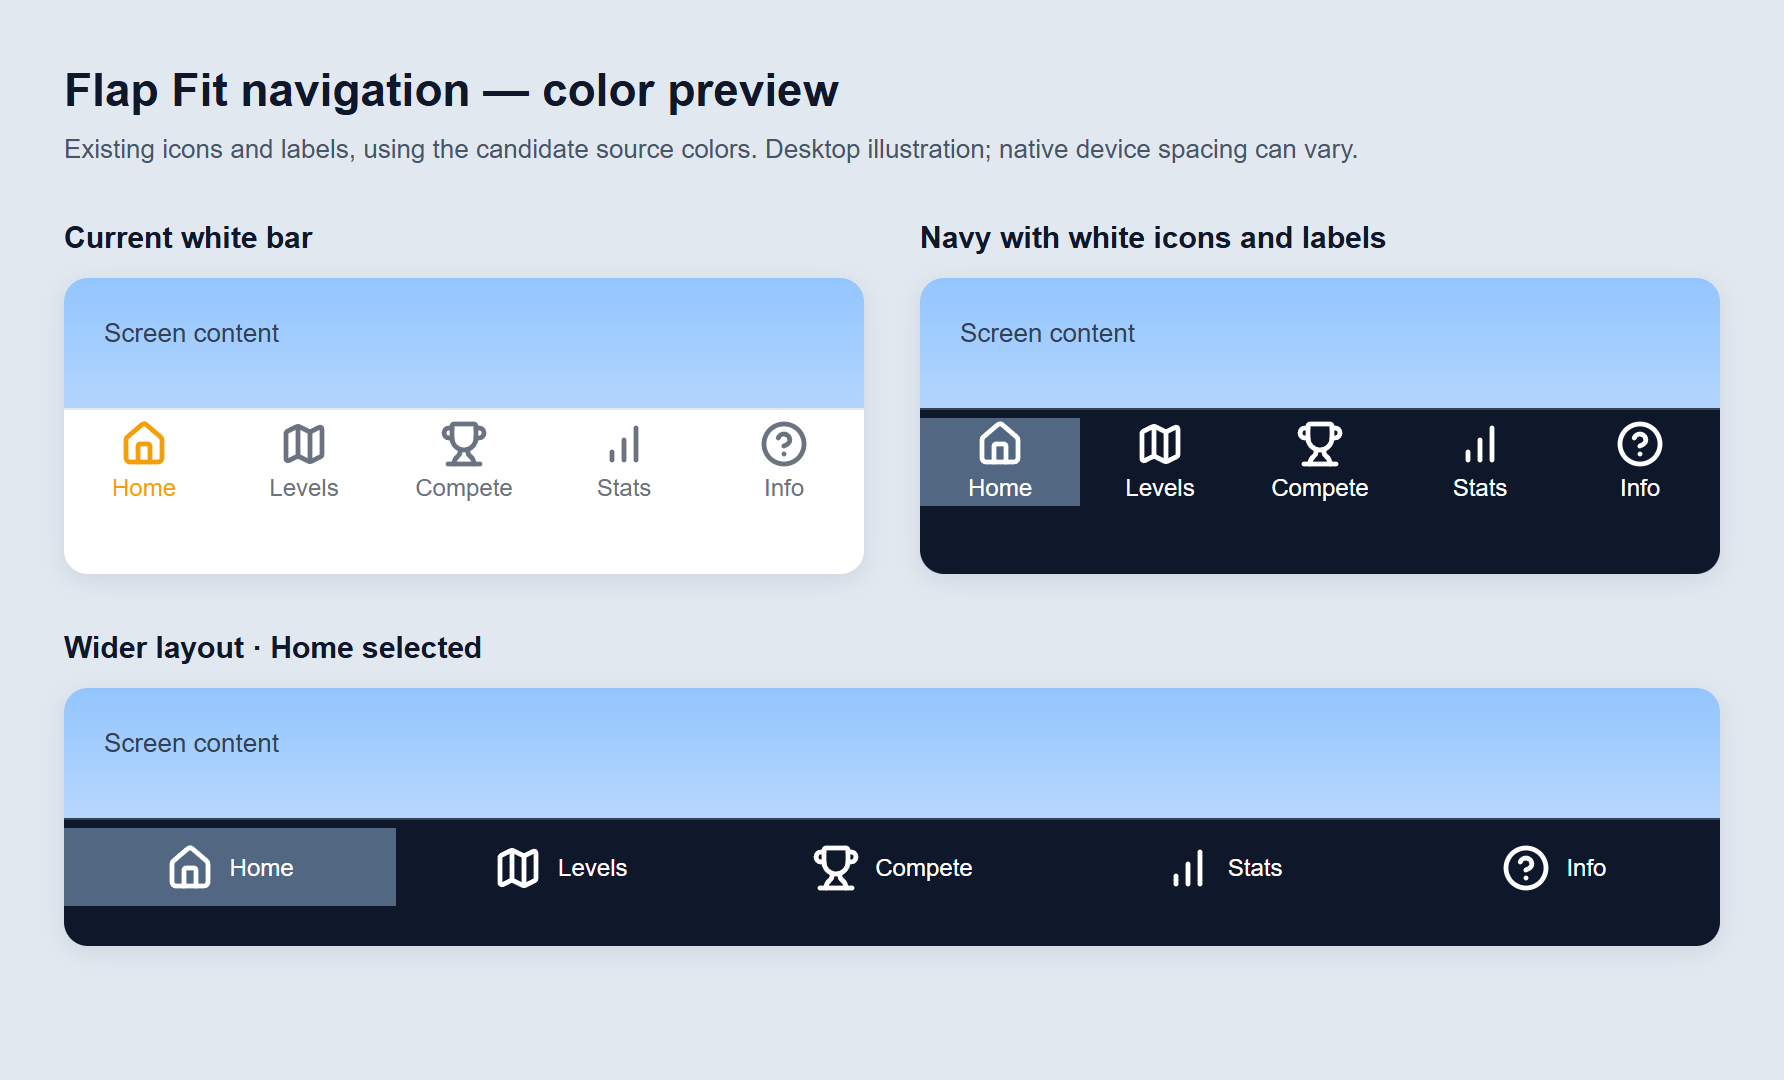
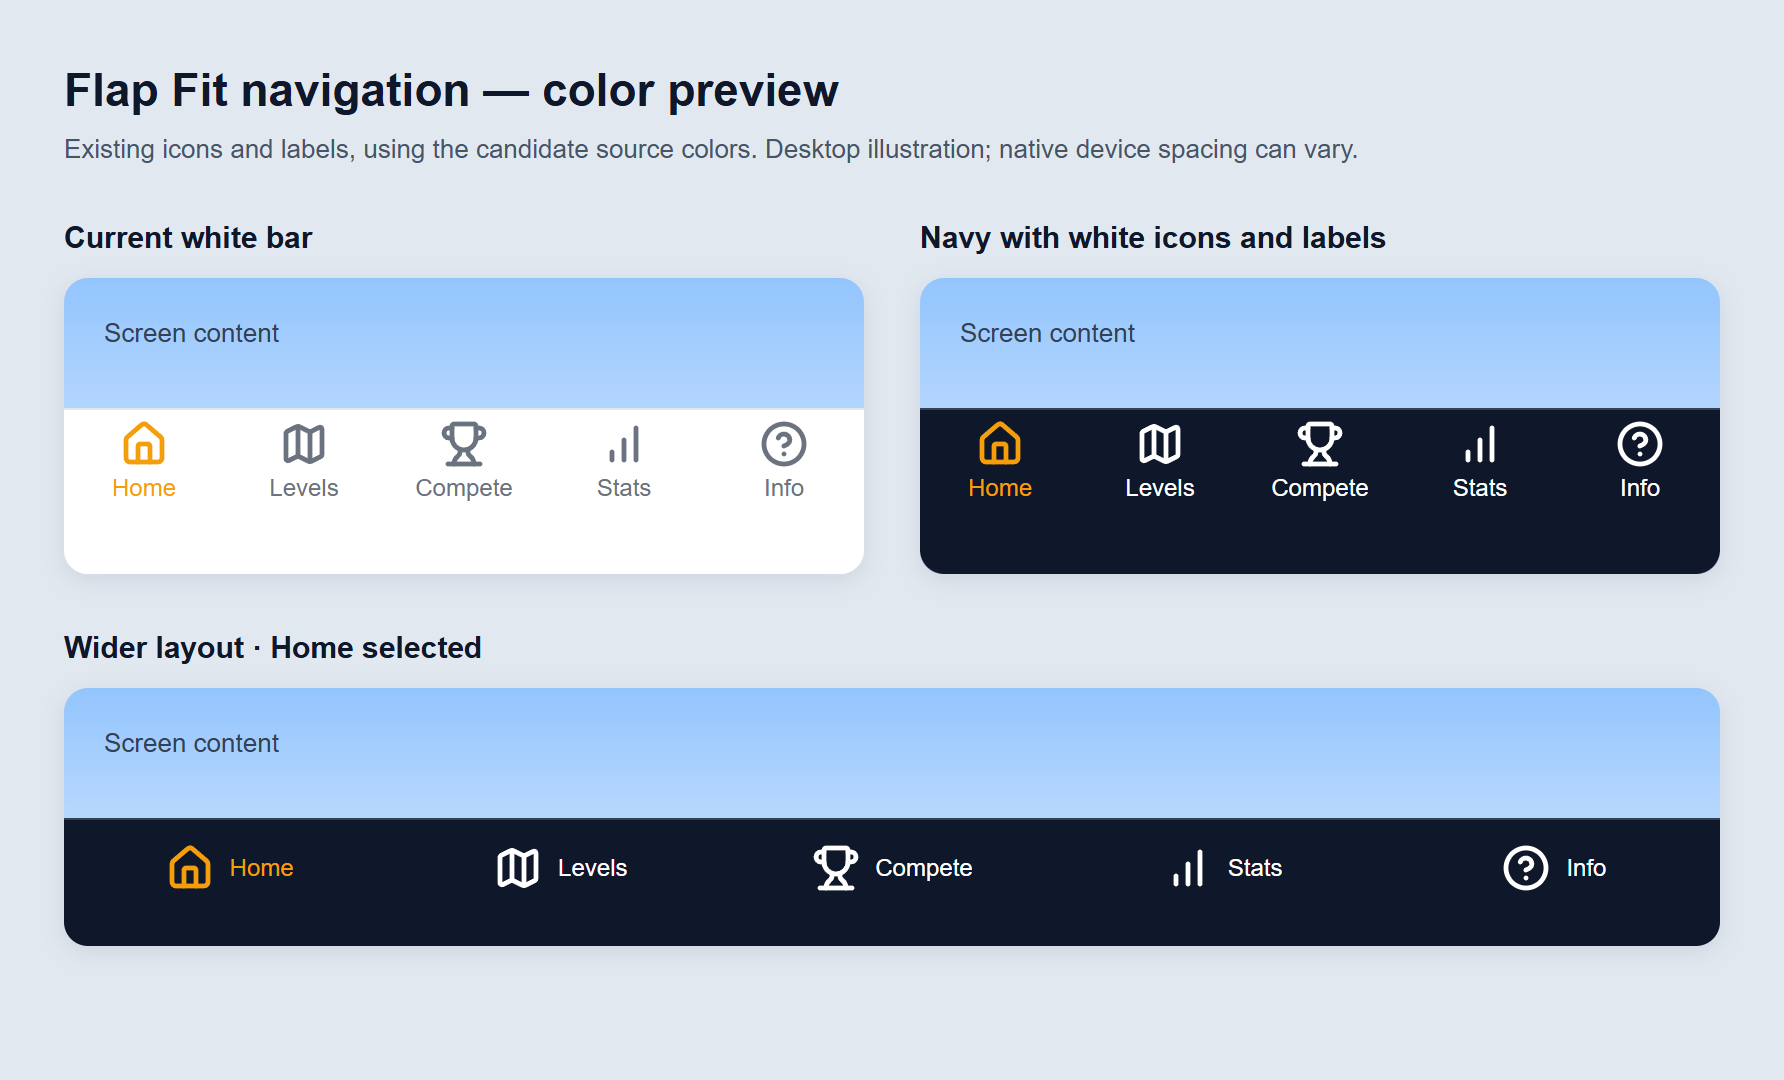
style(ios): preserve orange selected tab in navy preview

Changed region(s): [[0.0308, 0.7639, 0.2466, 0.8556], [0.4933, 0.3667, 0.6166, 0.4889]]

diff --git a/docs/release/navy-tab-preview-2026-10-08/nav-preview.html b/docs/release/navy-tab-preview-2026-10-08/nav-preview.html
@@ -1,1 +1,1 @@
-<!doctype html><meta charset="utf-8"><style>*{box-sizing:border-box}body{margin:0;padding:32px;background:#E2E8F0;font-family:Arial,sans-serif;color:#0F172A}h1{font-size:23px;margin:0 0 8px}p{font-size:13px;margin:0 0 28px;color:#475569}.row{display:flex;gap:28px}.card{width:400px}h2{font-size:15px;margin:0 0 12px}.frame{border-radius:12px;overflow:hidden;box-shadow:0 3px 12px #0f172a18;background:linear-gradient(#93c5fd,#dbeafe)}.content{height:65px;padding:20px;font-size:13px;color:#334155}.bar{display:flex;height:83px;padding-top:4px;padding-bottom:34px;width:100%}.tab{flex:1;display:flex;flex-direction:column;align-items:center;justify-content:center;gap:2px;min-width:0;font-size:12px;line-height:16px}.tab svg{height:24px;width:24px}.wide{height:64px;padding-bottom:20px}.wide .tab{flex-direction:row;gap:8px}.ipad{width:828px;margin-top:28px}</style><h1>Flap Fit navigation — color preview</h1><p>Existing icons and labels, using the candidate source colors. Desktop illustration; native device spacing can vary.</p><div class="row"><section class="card"><h2>Current white bar</h2><div class="frame"><div class="content">Screen content</div><nav class="bar " style="background:#FFFFFF;border-top:1px solid #E5E7EB"><div class="tab" style="background:transparent;color:#F59E0B"><svg viewBox="0 0 24 24" fill="none" stroke="#F59E0B" stroke-width="2.4" stroke-linecap="round" stroke-linejoin="round"><path d="M15 21v-8a1 1 0 0 0-1-1h-4a1 1 0 0 0-1 1v8"/><path d="M3 10a2 2 0 0 1 .709-1.528l7-5.999a2 2 0 0 1 2.582 0l7 5.999A2 2 0 0 1 21 10v9a2 2 0 0 1-2 2H5a2 2 0 0 1-2-2z"/></svg><span>Home</span></div><div class="tab" style="background:transparent;color:#6B7280"><svg viewBox="0 0 24 24" fill="none" stroke="#6B7280" stroke-width="2.4" stroke-linecap="round" stroke-linejoin="round"><path d="M14.106 5.553a2 2 0 0 0 1.788 0l3.659-1.83A1 1 0 0 1 21 4.619v12.764a1 1 0 0 1-.553.894l-4.553 2.277a2 2 0 0 1-1.788 0l-4.212-2.106a2 2 0 0 0-1.788 0l-3.659 1.83A1 1 0 0 1 3 19.381V6.618a1 1 0 0 1 .553-.894l4.553-2.277a2 2 0 0 1 1.788 0z"/><path d="M15 5.764v15"/><path d="M9 3.236v15"/></svg><span>Levels</span></div><div class="tab" style="background:transparent;color:#6B7280"><svg viewBox="0 0 24 24" fill="none" stroke="#6B7280" stroke-width="2.4" stroke-linecap="round" stroke-linejoin="round"><path d="M10 14.66v1.626a2 2 0 0 1-.976 1.696A5 5 0 0 0 7 21.978"/><path d="M14 14.66v1.626a2 2 0 0 0 .976 1.696A5 5 0 0 1 17 21.978"/><path d="M18 9h1.5a1 1 0 0 0 0-5H18"/><path d="M4 22h16"/><path d="M6 9a6 6 0 0 0 12 0V3a1 1 0 0 0-1-1H7a1 1 0 0 0-1 1z"/><path d="M6 9H4.5a1 1 0 0 1 0-5H6"/></svg><span>Compete</span></div><div class="tab" style="background:transparent;color:#6B7280"><svg viewBox="0 0 24 24" fill="none" stroke="#6B7280" stroke-width="2.4" stroke-linecap="round" stroke-linejoin="round"><line x1="12" x2="12" y1="20" y2="10"/><line x1="18" x2="18" y1="20" y2="4"/><line x1="6" x2="6" y1="20" y2="16"/></svg><span>Stats</span></div><div class="tab" style="background:transparent;color:#6B7280"><svg viewBox="0 0 24 24" fill="none" stroke="#6B7280" stroke-width="2.4" stroke-linecap="round" stroke-linejoin="round"><circle cx="12" cy="12" r="10"/><path d="M9.09 9a3 3 0 0 1 5.83 1c0 2-3 3-3 3"/><path d="M12 17h.01"/></svg><span>Info</span></div></nav></div></section><section class="card"><h2>Navy with white icons and labels</h2><div class="frame"><div class="content">Screen content</div><nav class="bar " style="background:#0F172A;border-top:1px solid #334155"><div class="tab" style="background:#526782;color:#FFFFFF"><svg viewBox="0 0 24 24" fill="none" stroke="#FFFFFF" stroke-width="2.4" stroke-linecap="round" stroke-linejoin="round"><path d="M15 21v-8a1 1 0 0 0-1-1h-4a1 1 0 0 0-1 1v8"/><path d="M3 10a2 2 0 0 1 .709-1.528l7-5.999a2 2 0 0 1 2.582 0l7 5.999A2 2 0 0 1 21 10v9a2 2 0 0 1-2 2H5a2 2 0 0 1-2-2z"/></svg><span>Home</span></div><div class="tab" style="background:transparent;color:#FFFFFF"><svg viewBox="0 0 24 24" fill="none" stroke="#FFFFFF" stroke-width="2.4" stroke-linecap="round" stroke-linejoin="round"><path d="M14.106 5.553a2 2 0 0 0 1.788 0l3.659-1.83A1 1 0 0 1 21 4.619v12.764a1 1 0 0 1-.553.894l-4.553 2.277a2 2 0 0 1-1.788 0l-4.212-2.106a2 2 0 0 0-1.788 0l-3.659 1.83A1 1 0 0 1 3 19.381V6.618a1 1 0 0 1 .553-.894l4.553-2.277a2 2 0 0 1 1.788 0z"/><path d="M15 5.764v15"/><path d="M9 3.236v15"/></svg><span>Levels</span></div><div class="tab" style="background:transparent;color:#FFFFFF"><svg viewBox="0 0 24 24" fill="none" stroke="#FFFFFF" stroke-width="2.4" stroke-linecap="round" stroke-linejoin="round"><path d="M10 14.66v1.626a2 2 0 0 1-.976 1.696A5 5 0 0 0 7 21.978"/><path d="M14 14.66v1.626a2 2 0 0 0 .976 1.696A5 5 0 0 1 17 21.978"/><path d="M18 9h1.5a1 1 0 0 0 0-5H18"/><path d="M4 22h16"/><path d="M6 9a6 6 0 0 0 12 0V3a1 1 0 0 0-1-1H7a1 1 0 0 0-1 1z"/><path d="M6 9H4.5a1 1 0 0 1 0-5H6"/></svg><span>Compete</span></div><div class="tab" style="background:transparent;color:#FFFFFF"><svg viewBox="0 0 24 24" fill="none" stroke="#FFFFFF" stroke-width="2.4" stroke-linecap="round" stroke-linejoin="round"><line x1="12" x2="12" y1="20" y2="10"/><line x1="18" x2="18" y1="20" y2="4"/><line x1="6" x2="6" y1="20" y2="16"/></svg><span>Stats</span></div><div class="tab" style="background:transparent;color:#FFFFFF"><svg viewBox="0 0 24 24" fill="none" stroke="#FFFFFF" stroke-width="2.4" stroke-linecap="round" stroke-linejoin="round"><circle cx="12" cy="12" r="10"/><path d="M9.09 9a3 3 0 0 1 5.83 1c0 2-3 3-3 3"/><path d="M12 17h.01"/></svg><span>Info</span></div></nav></div></section></div><section class="ipad"><h2>Wider layout · Home selected</h2><div class="frame"><div class="content">Screen content</div><nav class="bar wide" style="background:#0F172A;border-top:1px solid #334155"><div class="tab" style="background:#526782;color:#FFFFFF"><svg viewBox="0 0 24 24" fill="none" stroke="#FFFFFF" stroke-width="2.4" stroke-linecap="round" stroke-linejoin="round"><path d="M15 21v-8a1 1 0 0 0-1-1h-4a1 1 0 0 0-1 1v8"/><path d="M3 10a2 2 0 0 1 .709-1.528l7-5.999a2 2 0 0 1 2.582 0l7 5.999A2 2 0 0 1 21 10v9a2 2 0 0 1-2 2H5a2 2 0 0 1-2-2z"/></svg><span>Home</span></div><div class="tab" style="background:transparent;color:#FFFFFF"><svg viewBox="0 0 24 24" fill="none" stroke="#FFFFFF" stroke-width="2.4" stroke-linecap="round" stroke-linejoin="round"><path d="M14.106 5.553a2 2 0 0 0 1.788 0l3.659-1.83A1 1 0 0 1 21 4.619v12.764a1 1 0 0 1-.553.894l-4.553 2.277a2 2 0 0 1-1.788 0l-4.212-2.106a2 2 0 0 0-1.788 0l-3.659 1.83A1 1 0 0 1 3 19.381V6.618a1 1 0 0 1 .553-.894l4.553-2.277a2 2 0 0 1 1.788 0z"/><path d="M15 5.764v15"/><path d="M9 3.236v15"/></svg><span>Levels</span></div><div class="tab" style="background:transparent;color:#FFFFFF"><svg viewBox="0 0 24 24" fill="none" stroke="#FFFFFF" stroke-width="2.4" stroke-linecap="round" stroke-linejoin="round"><path d="M10 14.66v1.626a2 2 0 0 1-.976 1.696A5 5 0 0 0 7 21.978"/><path d="M14 14.66v1.626a2 2 0 0 0 .976 1.696A5 5 0 0 1 17 21.978"/><path d="M18 9h1.5a1 1 0 0 0 0-5H18"/><path d="M4 22h16"/><path d="M6 9a6 6 0 0 0 12 0V3a1 1 0 0 0-1-1H7a1 1 0 0 0-1 1z"/><path d="M6 9H4.5a1 1 0 0 1 0-5H6"/></svg><span>Compete</span></div><div class="tab" style="background:transparent;color:#FFFFFF"><svg viewBox="0 0 24 24" fill="none" stroke="#FFFFFF" stroke-width="2.4" stroke-linecap="round" stroke-linejoin="round"><line x1="12" x2="12" y1="20" y2="10"/><line x1="18" x2="18" y1="20" y2="4"/><line x1="6" x2="6" y1="20" y2="16"/></svg><span>Stats</span></div><div class="tab" style="background:transparent;color:#FFFFFF"><svg viewBox="0 0 24 24" fill="none" stroke="#FFFFFF" stroke-width="2.4" stroke-linecap="round" stroke-linejoin="round"><circle cx="12" cy="12" r="10"/><path d="M9.09 9a3 3 0 0 1 5.83 1c0 2-3 3-3 3"/><path d="M12 17h.01"/></svg><span>Info</span></div></nav></div></section>
+<!doctype html><meta charset="utf-8"><style>*{box-sizing:border-box}body{margin:0;padding:32px;background:#E2E8F0;font-family:Arial,sans-serif;color:#0F172A}h1{font-size:23px;margin:0 0 8px}p{font-size:13px;margin:0 0 28px;color:#475569}.row{display:flex;gap:28px}.card{width:400px}h2{font-size:15px;margin:0 0 12px}.frame{border-radius:12px;overflow:hidden;box-shadow:0 3px 12px #0f172a18;background:linear-gradient(#93c5fd,#dbeafe)}.content{height:65px;padding:20px;font-size:13px;color:#334155}.bar{display:flex;height:83px;padding-top:4px;padding-bottom:34px;width:100%}.tab{flex:1;display:flex;flex-direction:column;align-items:center;justify-content:center;gap:2px;min-width:0;font-size:12px;line-height:16px}.tab svg{height:24px;width:24px}.wide{height:64px;padding-bottom:20px}.wide .tab{flex-direction:row;gap:8px}.ipad{width:828px;margin-top:28px}</style><h1>Flap Fit navigation — color preview</h1><p>Existing icons and labels, using the candidate source colors. Desktop illustration; native device spacing can vary.</p><div class="row"><section class="card"><h2>Current white bar</h2><div class="frame"><div class="content">Screen content</div><nav class="bar " style="background:#FFFFFF;border-top:1px solid #E5E7EB"><div class="tab" style="background:transparent;color:#F59E0B"><svg viewBox="0 0 24 24" fill="none" stroke="#F59E0B" stroke-width="2.4" stroke-linecap="round" stroke-linejoin="round"><path d="M15 21v-8a1 1 0 0 0-1-1h-4a1 1 0 0 0-1 1v8"/><path d="M3 10a2 2 0 0 1 .709-1.528l7-5.999a2 2 0 0 1 2.582 0l7 5.999A2 2 0 0 1 21 10v9a2 2 0 0 1-2 2H5a2 2 0 0 1-2-2z"/></svg><span>Home</span></div><div class="tab" style="background:transparent;color:#6B7280"><svg viewBox="0 0 24 24" fill="none" stroke="#6B7280" stroke-width="2.4" stroke-linecap="round" stroke-linejoin="round"><path d="M14.106 5.553a2 2 0 0 0 1.788 0l3.659-1.83A1 1 0 0 1 21 4.619v12.764a1 1 0 0 1-.553.894l-4.553 2.277a2 2 0 0 1-1.788 0l-4.212-2.106a2 2 0 0 0-1.788 0l-3.659 1.83A1 1 0 0 1 3 19.381V6.618a1 1 0 0 1 .553-.894l4.553-2.277a2 2 0 0 1 1.788 0z"/><path d="M15 5.764v15"/><path d="M9 3.236v15"/></svg><span>Levels</span></div><div class="tab" style="background:transparent;color:#6B7280"><svg viewBox="0 0 24 24" fill="none" stroke="#6B7280" stroke-width="2.4" stroke-linecap="round" stroke-linejoin="round"><path d="M10 14.66v1.626a2 2 0 0 1-.976 1.696A5 5 0 0 0 7 21.978"/><path d="M14 14.66v1.626a2 2 0 0 0 .976 1.696A5 5 0 0 1 17 21.978"/><path d="M18 9h1.5a1 1 0 0 0 0-5H18"/><path d="M4 22h16"/><path d="M6 9a6 6 0 0 0 12 0V3a1 1 0 0 0-1-1H7a1 1 0 0 0-1 1z"/><path d="M6 9H4.5a1 1 0 0 1 0-5H6"/></svg><span>Compete</span></div><div class="tab" style="background:transparent;color:#6B7280"><svg viewBox="0 0 24 24" fill="none" stroke="#6B7280" stroke-width="2.4" stroke-linecap="round" stroke-linejoin="round"><line x1="12" x2="12" y1="20" y2="10"/><line x1="18" x2="18" y1="20" y2="4"/><line x1="6" x2="6" y1="20" y2="16"/></svg><span>Stats</span></div><div class="tab" style="background:transparent;color:#6B7280"><svg viewBox="0 0 24 24" fill="none" stroke="#6B7280" stroke-width="2.4" stroke-linecap="round" stroke-linejoin="round"><circle cx="12" cy="12" r="10"/><path d="M9.09 9a3 3 0 0 1 5.83 1c0 2-3 3-3 3"/><path d="M12 17h.01"/></svg><span>Info</span></div></nav></div></section><section class="card"><h2>Navy with white icons and labels</h2><div class="frame"><div class="content">Screen content</div><nav class="bar " style="background:#0F172A;border-top:1px solid #334155"><div class="tab" style="background:transparent;color:#F59E0B"><svg viewBox="0 0 24 24" fill="none" stroke="#F59E0B" stroke-width="2.4" stroke-linecap="round" stroke-linejoin="round"><path d="M15 21v-8a1 1 0 0 0-1-1h-4a1 1 0 0 0-1 1v8"/><path d="M3 10a2 2 0 0 1 .709-1.528l7-5.999a2 2 0 0 1 2.582 0l7 5.999A2 2 0 0 1 21 10v9a2 2 0 0 1-2 2H5a2 2 0 0 1-2-2z"/></svg><span>Home</span></div><div class="tab" style="background:transparent;color:#FFFFFF"><svg viewBox="0 0 24 24" fill="none" stroke="#FFFFFF" stroke-width="2.4" stroke-linecap="round" stroke-linejoin="round"><path d="M14.106 5.553a2 2 0 0 0 1.788 0l3.659-1.83A1 1 0 0 1 21 4.619v12.764a1 1 0 0 1-.553.894l-4.553 2.277a2 2 0 0 1-1.788 0l-4.212-2.106a2 2 0 0 0-1.788 0l-3.659 1.83A1 1 0 0 1 3 19.381V6.618a1 1 0 0 1 .553-.894l4.553-2.277a2 2 0 0 1 1.788 0z"/><path d="M15 5.764v15"/><path d="M9 3.236v15"/></svg><span>Levels</span></div><div class="tab" style="background:transparent;color:#FFFFFF"><svg viewBox="0 0 24 24" fill="none" stroke="#FFFFFF" stroke-width="2.4" stroke-linecap="round" stroke-linejoin="round"><path d="M10 14.66v1.626a2 2 0 0 1-.976 1.696A5 5 0 0 0 7 21.978"/><path d="M14 14.66v1.626a2 2 0 0 0 .976 1.696A5 5 0 0 1 17 21.978"/><path d="M18 9h1.5a1 1 0 0 0 0-5H18"/><path d="M4 22h16"/><path d="M6 9a6 6 0 0 0 12 0V3a1 1 0 0 0-1-1H7a1 1 0 0 0-1 1z"/><path d="M6 9H4.5a1 1 0 0 1 0-5H6"/></svg><span>Compete</span></div><div class="tab" style="background:transparent;color:#FFFFFF"><svg viewBox="0 0 24 24" fill="none" stroke="#FFFFFF" stroke-width="2.4" stroke-linecap="round" stroke-linejoin="round"><line x1="12" x2="12" y1="20" y2="10"/><line x1="18" x2="18" y1="20" y2="4"/><line x1="6" x2="6" y1="20" y2="16"/></svg><span>Stats</span></div><div class="tab" style="background:transparent;color:#FFFFFF"><svg viewBox="0 0 24 24" fill="none" stroke="#FFFFFF" stroke-width="2.4" stroke-linecap="round" stroke-linejoin="round"><circle cx="12" cy="12" r="10"/><path d="M9.09 9a3 3 0 0 1 5.83 1c0 2-3 3-3 3"/><path d="M12 17h.01"/></svg><span>Info</span></div></nav></div></section></div><section class="ipad"><h2>Wider layout · Home selected</h2><div class="frame"><div class="content">Screen content</div><nav class="bar wide" style="background:#0F172A;border-top:1px solid #334155"><div class="tab" style="background:transparent;color:#F59E0B"><svg viewBox="0 0 24 24" fill="none" stroke="#F59E0B" stroke-width="2.4" stroke-linecap="round" stroke-linejoin="round"><path d="M15 21v-8a1 1 0 0 0-1-1h-4a1 1 0 0 0-1 1v8"/><path d="M3 10a2 2 0 0 1 .709-1.528l7-5.999a2 2 0 0 1 2.582 0l7 5.999A2 2 0 0 1 21 10v9a2 2 0 0 1-2 2H5a2 2 0 0 1-2-2z"/></svg><span>Home</span></div><div class="tab" style="background:transparent;color:#FFFFFF"><svg viewBox="0 0 24 24" fill="none" stroke="#FFFFFF" stroke-width="2.4" stroke-linecap="round" stroke-linejoin="round"><path d="M14.106 5.553a2 2 0 0 0 1.788 0l3.659-1.83A1 1 0 0 1 21 4.619v12.764a1 1 0 0 1-.553.894l-4.553 2.277a2 2 0 0 1-1.788 0l-4.212-2.106a2 2 0 0 0-1.788 0l-3.659 1.83A1 1 0 0 1 3 19.381V6.618a1 1 0 0 1 .553-.894l4.553-2.277a2 2 0 0 1 1.788 0z"/><path d="M15 5.764v15"/><path d="M9 3.236v15"/></svg><span>Levels</span></div><div class="tab" style="background:transparent;color:#FFFFFF"><svg viewBox="0 0 24 24" fill="none" stroke="#FFFFFF" stroke-width="2.4" stroke-linecap="round" stroke-linejoin="round"><path d="M10 14.66v1.626a2 2 0 0 1-.976 1.696A5 5 0 0 0 7 21.978"/><path d="M14 14.66v1.626a2 2 0 0 0 .976 1.696A5 5 0 0 1 17 21.978"/><path d="M18 9h1.5a1 1 0 0 0 0-5H18"/><path d="M4 22h16"/><path d="M6 9a6 6 0 0 0 12 0V3a1 1 0 0 0-1-1H7a1 1 0 0 0-1 1z"/><path d="M6 9H4.5a1 1 0 0 1 0-5H6"/></svg><span>Compete</span></div><div class="tab" style="background:transparent;color:#FFFFFF"><svg viewBox="0 0 24 24" fill="none" stroke="#FFFFFF" stroke-width="2.4" stroke-linecap="round" stroke-linejoin="round"><line x1="12" x2="12" y1="20" y2="10"/><line x1="18" x2="18" y1="20" y2="4"/><line x1="6" x2="6" y1="20" y2="16"/></svg><span>Stats</span></div><div class="tab" style="background:transparent;color:#FFFFFF"><svg viewBox="0 0 24 24" fill="none" stroke="#FFFFFF" stroke-width="2.4" stroke-linecap="round" stroke-linejoin="round"><circle cx="12" cy="12" r="10"/><path d="M9.09 9a3 3 0 0 1 5.83 1c0 2-3 3-3 3"/><path d="M12 17h.01"/></svg><span>Info</span></div></nav></div></section>

diff --git a/apps/mobile/src/app/(tabs)/_layout.tsx b/apps/mobile/src/app/(tabs)/_layout.tsx
@@ -24,9 +24,8 @@ export default function TabLayout() {
               }
             : {}),
         },
-        tabBarActiveTintColor: isIOS ? '#FFFFFF' : '#F59E0B',
+        tabBarActiveTintColor: '#F59E0B',
         tabBarInactiveTintColor: isIOS ? '#FFFFFF' : '#6B7280',
-        ...(isIOS ? { tabBarActiveBackgroundColor: '#526782' } : {}),
         tabBarLabelStyle: {
           fontSize: 12,
           lineHeight: 16,

diff --git a/docs/release/ios-navy-tab-preview-2026-10-08.md b/docs/release/ios-navy-tab-preview-2026-10-08.md
@@ -5,14 +5,16 @@ Owner requested trying the existing Flap Fit navy with white icons/text while ke
 Only `apps/mobile/src/app/(tabs)/_layout.tsx` changes application behavior, limited to iOS colors:
 
 - Navy background `#0F172A`, matching the existing app NAVY constant.
-- White `#FFFFFF` icons and labels in both selected/unselected states.
-- Selected-tab background `#526782`, using the navigator's existing active-background option to preserve a visible current-tab distinction.
+- White `#FFFFFF` icons and labels only for unselected tabs.
+- Preserve the existing orange `#F59E0B` icon/label for the selected tab. The owner rejected the proposed square highlight; the active-background override is removed.
 - Subtle top separator `#334155`.
 
 Existing icons, labels, sizes, spacing, safe-area behavior, tab order, navigation actions, accessibility selection semantics and all game code are unchanged. Android/web use their existing options. No new components, dependencies, assets or native configuration are added to the app.
 
-Validation: targeted lint and diff checks passed. Executing the actual layout with its existing options confirms Android options are identical to the baseline. Contrast ratios are 17.85:1 white/navy, 5.80:1 white/selected highlight and 3.08:1 highlight/navy. Existing icon paths and the candidate's real color options were used to render a [desktop color preview](navy-tab-preview-2026-10-08/nav-preview.png). It is an illustration, not an iPhone/iPad screenshot or proof of native layout acceptance. No new behavior tests were added for this style-only change.
+Validation: targeted lint and diff checks passed. Executing the actual layout with its existing options confirms Android options are identical to the baseline. Contrast ratios are 17.85:1 white/navy and 8.31:1 existing orange/navy. The preview check verifies the selected-tab color remains orange and no active-background override remains. Existing icon paths and the candidate's real color options were used to render a [desktop color preview](navy-tab-preview-2026-10-08/nav-preview.png). It is an illustration, not an iPhone/iPad screenshot or proof of native layout acceptance. No new behavior tests were added for this style-only change.
 
 Apple permits custom tab-bar backgrounds/tints: https://developer.apple.com/design/human-interface-guidelines/tab-bars and https://developer.apple.com/documentation/uikit/uitabbar . Its screenshot guidance separately says to update screenshots to match the current interface: https://developer.apple.com/help/app-review/guideline-reference/2-3-3-screenshots/ . No guarantee was made that a changed bar can be left different in existing submission screenshots. Screenshots without the bar are unaffected by this specific change; existing marketing text/layout could be reused if affected captures are refreshed. No App Store screenshots/settings were modified.
 
 All changes are confined to the iOS candidate branch. Android can adopt these styles later only if the owner chooses; its branch was not changed. No OTA, build or Apple submission was started for this preview.
+
+Owner clarification: the bar appears in eight of ten screenshots and new iPhone/iPad captures are currently impractical. The owner proposed only navy background/white inactive controls while preserving orange selection, deferring illustrated icons until later. This revision follows that narrower scope. The screenshot difference was described as a relatively low-risk cosmetic difference as a judgment, not a guaranteed Apple acceptance or a measured rejection rate. Apple guideline 2.3 requires metadata to accurately reflect the core experience; its screenshot help separately recommends matching the current interface. No screenshots were changed. No OTA was authorized or published in this follow-up.

diff --git a/docs/release/ios-fixes-android-handoff-2026-10-08.md b/docs/release/ios-fixes-android-handoff-2026-10-08.md
@@ -31,7 +31,7 @@ The owner clarified their initial upright-calibration report came from a deleted
 
 ## Unpublished navigation color candidate
 
-A later owner-requested [navy/white tab-bar preview](ios-navy-tab-preview-2026-10-08.md) is saved separately from the published onboarding OTA. It is iOS-only, preserves icons/layout and awaits the owner's decision before publication or resubmission inclusion. Do not treat it as already device-approved or copy its iOS guard into Android without adapting deliberately.
+A later owner-requested [navy/white tab-bar preview](ios-navy-tab-preview-2026-10-08.md) is saved separately from the published onboarding OTA. The latest revision preserves the existing orange selected icon/label and removes the earlier square-highlight proposal; only the bar background and inactive control colors change. It is iOS-only, preserves icons/layout and awaits the owner's decision before publication or resubmission inclusion. Do not treat it as already device-approved or copy its iOS guard into Android without adapting deliberately.
 
 ## Published iOS state and verification
 
